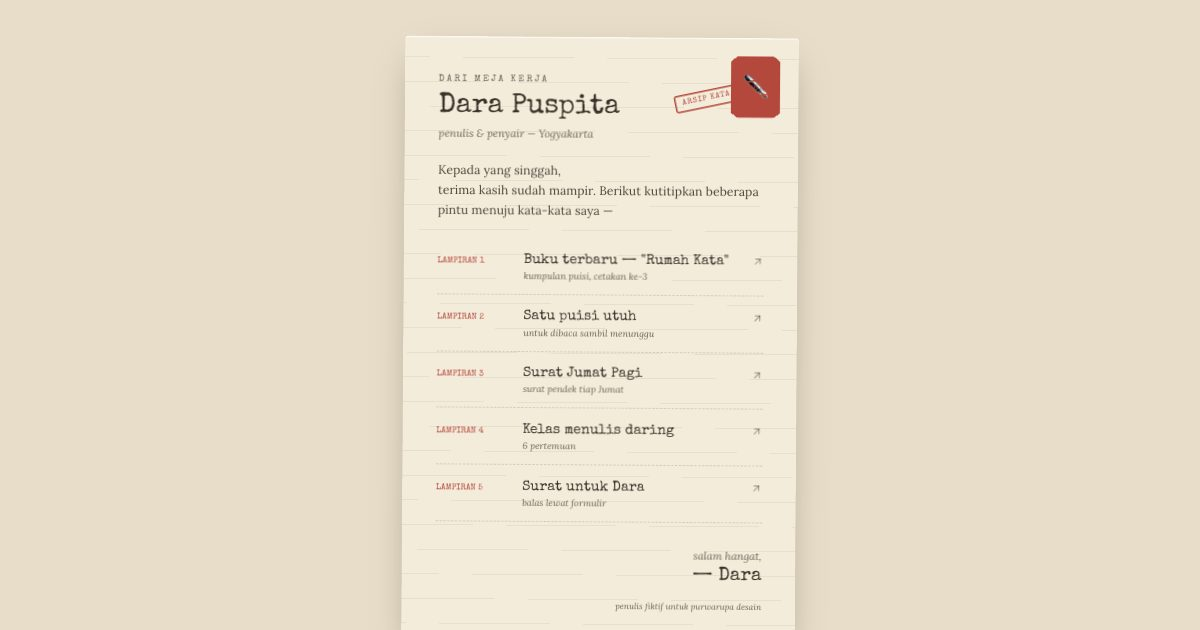
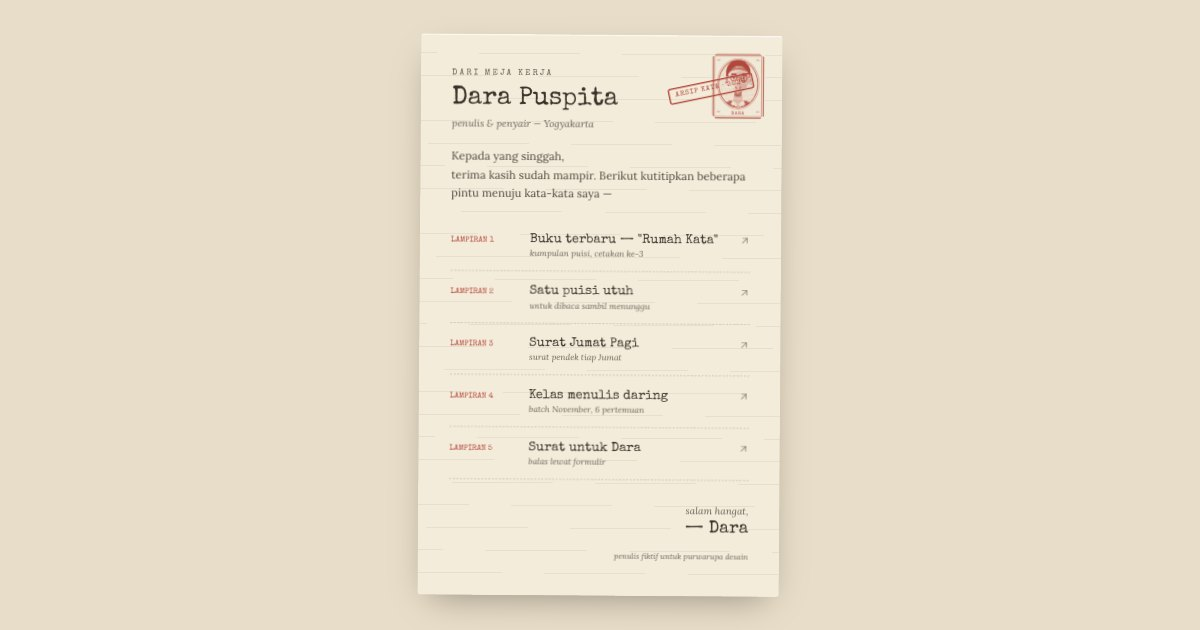
Tambah perangko berpotret ukir Dara dan sampul buku Rumah Kata
- Emoji pena di perangko surat beranda diganti potret ukir garis Dara
  Puspita (merah pos di atas kertas, bingkai oval), persona fiktif
- Sampul /buku kini ilustrasi cetak dua warna: rumah kecil berjendela baris
  kata, huruf mengepul dari cerobong, cangkir teh di ambang pintu
- Ilustrasi asli dicatat di public/images/SUMBER.md; gambar statis lewat
  scripts/static-images.mjs dengan <img srcset>; og.jpg diperbarui

Changed region(s): [[0.3392, 0.0603, 0.6783, 0.9952], [0.555, 0.7841, 0.6167, 0.8444]]

diff --git a/app/components/Gambar.jsx b/app/components/Gambar.jsx
@@ -1,0 +1,33 @@
+import manifest from '@/image-manifest.json';
+
+// Gambar statis tanpa JavaScript klien: <img> biasa dengan srcset varian WebP buatan
+// scripts/static-images.mjs (peta hash di image-manifest.json, sama seperti image-loader.js).
+// width/height = ukuran tampil (px CSS); tanpa `sizes` dipakai deskriptor 1x/2x,
+// dengan `sizes` dipakai deskriptor lebar sampai `asli` (lebar berkas sumber).
+const LEBAR = [64, 128, 256, 384, 640, 828, 1080, 1280, 1920];
+const varian = (src, w) => {
+  const hash = manifest[src];
+  return hash ? `/_img${src.replace(/\.(png|jpe?g|webp)$/i, '')}.${hash}-${w}.webp` : src;
+};
+const naik = (w) => LEBAR.find((x) => x >= w) ?? LEBAR[LEBAR.length - 1];
+
+export default function Gambar({ src, alt, width, height, sizes, asli = 1920, priority = false, ...rest }) {
+  const srcSet = sizes
+    ? LEBAR.filter((w) => w <= naik(asli)).map((w) => `${varian(src, w)} ${w}w`).join(', ')
+    : `${varian(src, naik(width))} 1x, ${varian(src, naik(width * 2))} 2x`;
+  return (
+    // eslint-disable-next-line @next/next/no-img-element
+    <img
+      src={varian(src, naik(sizes ? Math.min(asli, 1080) : width * 2))}
+      srcSet={srcSet}
+      sizes={sizes}
+      alt={alt}
+      width={width}
+      height={height}
+      loading={priority ? 'eager' : 'lazy'}
+      fetchPriority={priority ? 'high' : undefined}
+      decoding="async"
+      {...rest}
+    />
+  );
+}

diff --git a/app/buku/page.js b/app/buku/page.js
@@ -1,5 +1,6 @@
 import { BUKU, SITE, rp } from '@/lib/dara';
 import Kembali from '../components/Kembali';
+import Gambar from '../components/Gambar';
 import PesanBuku from '../components/PesanBuku';
 
 export const metadata = {
@@ -14,10 +15,7 @@ export default function Buku() {
       <div className="kertas relative mx-auto w-full max-w-2xl rounded-sm px-7 py-9 md:px-11 md:py-12">
         <Kembali lampiran="Lampiran 1" />
         <div className="mt-8 grid items-end gap-8 sm:grid-cols-[9rem_1fr]">
-          <div aria-hidden="true" className="relative h-52 w-36 rotate-[-2deg] rounded-sm bg-merahpos p-4 text-kertas shadow-[6px_8px_0_rgba(58,49,40,0.25)]">
-            <p className="font-type text-xl leading-tight">Rumah<br />Kata</p>
-            <p className="absolute bottom-4 left-4 font-serif text-xs italic">Dara Puspita</p>
-          </div>
+          <Gambar src="/images/sampul-rumah-kata.webp" alt="Sampul buku Rumah Kata karya Dara Puspita: rumah kecil berjendela baris kata, huruf mengepul dari cerobong, dan cangkir teh di ambang pintu" width={144} height={208} asli={432} priority className="h-52 w-36 rotate-[-2deg] rounded-sm shadow-[6px_8px_0_rgba(58,49,40,0.25)]" />
           <div>
             <p className="font-type text-xs uppercase tracking-[0.2em] text-tinta/75">{BUKU.jenis}</p>
             <h1 className="mt-1 font-type text-4xl text-tinta">{BUKU.judul}</h1>

diff --git a/app/page.js b/app/page.js
@@ -1,4 +1,5 @@
 import Link from 'next/link';
+import Gambar from './components/Gambar';
 import { ArrowUpRight } from 'lucide-react';
 import { LAMPIRAN } from '@/lib/dara';
 import { hariIniWIB } from '@/lib/waktu';
@@ -10,7 +11,9 @@ export default function Home() {
     <main className="flex min-h-screen items-center justify-center px-4 py-12">
       <div className="kertas relative w-full max-w-lg rotate-[0.4deg] rounded-sm px-7 py-9 md:px-11 md:py-12">
         <div className="absolute right-6 top-6 flex items-start gap-3" aria-hidden="true">
-          <div className="perangko rise grid h-20 w-16 place-items-center rounded-sm text-3xl text-kertas">✒</div>
+          <div className="perangko rise h-20 w-16 overflow-hidden rounded-sm sm:h-24 sm:w-[4.8rem]">
+            <Gambar src="/images/perangko-dara.webp" alt="" width={77} height={96} asli={384} loading="eager" className="h-full w-full object-cover" />
+          </div>
         </div>
         <div className="stamp-in absolute right-10 top-16 rounded border-2 border-merahpos px-2 py-0.5 font-type text-[10px] uppercase tracking-widest text-merahpos" aria-hidden="true">
           Arsip Kata · 2026

diff --git a/image-loader.js b/image-loader.js
@@ -1,0 +1,15 @@
+// Loader next/image untuk gambar statis: varian WebP di public/_img/ buatan skrip static-images (lihat
+// image-manifest.json). Tidak memakai Image Optimization Vercel, jadi tidak terikat kuota bulanan.
+// Lebar yang diminta selalu salah satu dari deviceSizes/imageSizes di next.config (= WIDTHS di bawah).
+// Gambar di luar manifest (SVG, GIF, URL luar, impor statis) dikembalikan apa adanya.
+import manifest from './image-manifest.json'
+
+const WIDTHS = [64,128,256,384,640,828,1080,1280,1920]
+
+export default function staticImageLoader({ src, width }) {
+  const hash = manifest[src]
+  if (!hash) return src
+  const w = WIDTHS.find((x) => x >= width) ?? WIDTHS[WIDTHS.length - 1]
+  const stem = src.slice("".length).replace(/\.(png|jpe?g|webp)$/i, '')
+  return `/_img${stem}.${hash}-${w}.webp`
+}

diff --git a/public/images/SUMBER.md b/public/images/SUMBER.md
@@ -1,0 +1,8 @@
+# Sumber gambar
+
+| Berkas | Isi | Sumber | Lisensi |
+| --- | --- | --- | --- |
+| perangko-dara.webp | Perangko berpotret ukir Dara Puspita (penulis fiktif); ukiran garis dibangkitkan dari potret ilustrasi | Ilustrasi asli PintuWeb | Milik PintuWeb |
+| sampul-rumah-kata.webp | Sampul buku puisi "Rumah Kata" (buku fiktif) | Ilustrasi asli PintuWeb | Milik PintuWeb |
+
+Tidak ada foto stok dan tidak ada wajah orang sungguhan.
